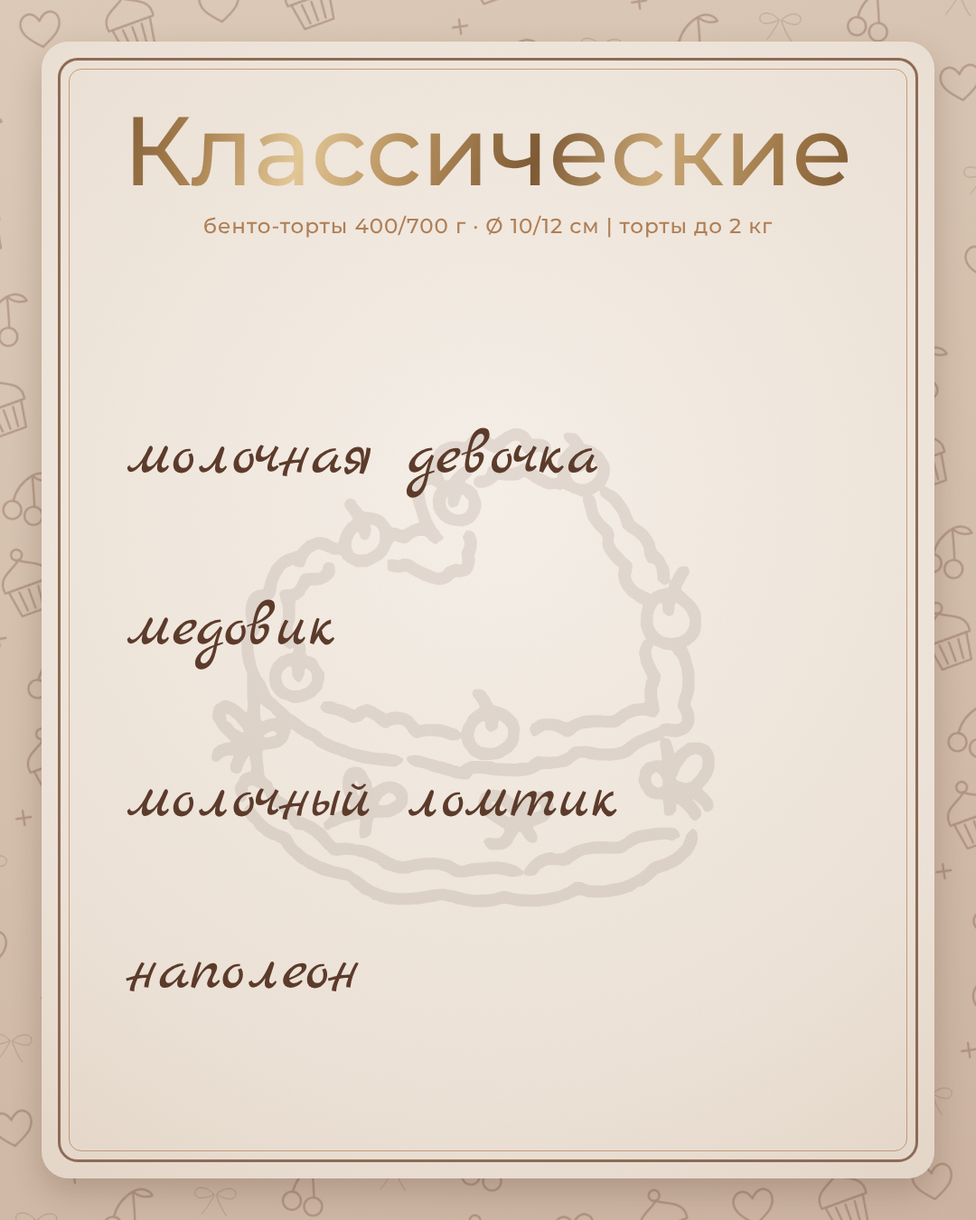
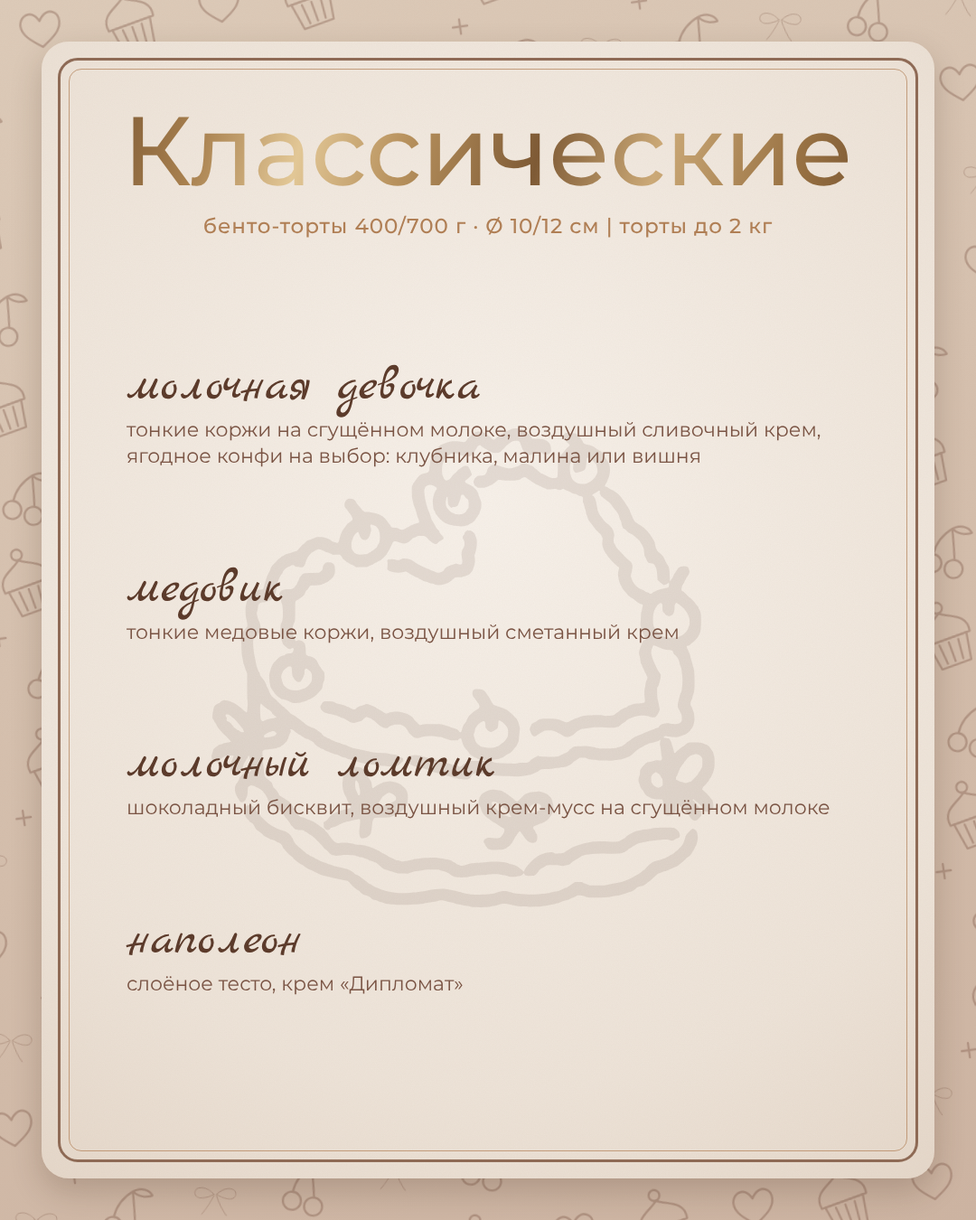
Menu: compositions for the new and classic cakes, cupcakes at 7 р
Adds the client's compositions for Фисташка-малина, Морковный and the four
classic cakes, which now show under their names on the slide and the story,
and the cupcake price on the cupcakes story. The cakes list is set a size
smaller so all eight fillings with compositions fit the frame.

Claude-Session: https://claude.ai/code/session_01BS48fjdM6CerzjRUCyn4gA

diff --git a/canvas/project/Menu-3-Torty.dc.html b/canvas/project/Menu-3-Torty.dc.html
@@ -20,23 +20,23 @@
 <img src="/_blob/7065785caaf3c4a338b728754059f4bd" alt="" style="position: absolute; left: 130px; top: 419px; width: 820px; opacity: 0.1">
 <div style="position: absolute; left: 0; right: 0; top: 112px; text-align: center"><span style="display: inline-block; padding: 0.3em 0.45em; margin: -0.3em -0.45em; background: linear-gradient(105deg, #6E4C2C 0%, #A9814F 16%, #E2C796 28%, #B8925E 40%, #7E5A35 56%, #CBA977 70%, #9A7344 86%, #6E4C2C 100%); -webkit-background-clip: text; background-clip: text; color: transparent; white-space: nowrap; font-family: 'Montserrat', sans-serif; font-weight: 500; font-size: 108px; line-height: 1">Торты</span></div>
 <div style="position: absolute; left: 0; right: 0; top: 236px; text-align: center; font-family: 'Montserrat', sans-serif; font-weight: 500; font-size: 23px; letter-spacing: 0.04em; color: #B07F55">бенто-торты 400/700 г · Ø 10/12 см  |  торты до 2 кг</div>
-<div style="position: absolute; left: 140px; right: 150px; top: 300px; display: flex; flex-direction: column; gap: 20px"><div>
-<div style="font-family: 'Marck Script', cursive; font-size: 54px; line-height: 1.05; color: #5C3B2B">фисташка-малина</div>
-<div style="margin-top: 4px; font-family: 'Montserrat', sans-serif; font-size: 22px; line-height: 1.35; color: #7A5444"></div></div><div>
-<div style="font-family: 'Marck Script', cursive; font-size: 54px; line-height: 1.05; color: #5C3B2B">банан-карамель</div>
-<div style="margin-top: 4px; font-family: 'Montserrat', sans-serif; font-size: 22px; line-height: 1.35; color: #7A5444">ванильный или шоколадный бисквит, сливочный крем-чиз, солёная карамель, свежий банан</div></div><div>
-<div style="font-family: 'Marck Script', cursive; font-size: 54px; line-height: 1.05; color: #5C3B2B">вишня-шоколад</div>
-<div style="margin-top: 4px; font-family: 'Montserrat', sans-serif; font-size: 22px; line-height: 1.35; color: #7A5444">шоколадный бисквит, сливочный или шоколадный крем-чиз, вишнёвое конфи с кусочками цельной вишни</div></div><div>
-<div style="font-family: 'Marck Script', cursive; font-size: 54px; line-height: 1.05; color: #5C3B2B">красный бархат</div>
-<div style="margin-top: 4px; font-family: 'Montserrat', sans-serif; font-size: 22px; line-height: 1.35; color: #7A5444">бисквит красный бархат, сливочный крем-чиз, ягодное конфи на выбор: клубничное, малиновое или вишнёвое</div></div><div>
-<div style="font-family: 'Marck Script', cursive; font-size: 54px; line-height: 1.05; color: #5C3B2B">лимон-мак</div>
-<div style="margin-top: 4px; font-family: 'Montserrat', sans-serif; font-size: 22px; line-height: 1.35; color: #7A5444">маковый бисквит, сливочный крем-чиз, лимонный курд</div></div><div>
-<div style="font-family: 'Marck Script', cursive; font-size: 54px; line-height: 1.05; color: #5C3B2B">ягодный пломбир</div>
-<div style="margin-top: 4px; font-family: 'Montserrat', sans-serif; font-size: 22px; line-height: 1.35; color: #7A5444">ванильный бисквит, сливочный крем-чиз, клубнично-малиновая начинка</div></div><div>
-<div style="font-family: 'Marck Script', cursive; font-size: 54px; line-height: 1.05; color: #5C3B2B">сникерс</div>
-<div style="margin-top: 4px; font-family: 'Montserrat', sans-serif; font-size: 22px; line-height: 1.35; color: #7A5444">шоколадный бисквит, сливочный крем-чиз, солёная карамель, жареный арахис</div></div><div>
-<div style="font-family: 'Marck Script', cursive; font-size: 54px; line-height: 1.05; color: #5C3B2B">морковный</div>
-<div style="margin-top: 4px; font-family: 'Montserrat', sans-serif; font-size: 22px; line-height: 1.35; color: #7A5444"></div></div></div>
+<div style="position: absolute; left: 140px; right: 150px; top: 288px; display: flex; flex-direction: column; gap: 12px"><div>
+<div style="font-family: 'Marck Script', cursive; font-size: 46px; line-height: 1.05; color: #5C3B2B">фисташка-малина</div>
+<div style="margin-top: 4px; font-family: 'Montserrat', sans-serif; font-size: 20px; line-height: 1.35; color: #7A5444">фисташковый бисквит, фисташковый ганаш, малиновое конфи, фисташковый крем</div></div><div>
+<div style="font-family: 'Marck Script', cursive; font-size: 46px; line-height: 1.05; color: #5C3B2B">банан-карамель</div>
+<div style="margin-top: 4px; font-family: 'Montserrat', sans-serif; font-size: 20px; line-height: 1.35; color: #7A5444">ванильный или шоколадный бисквит, сливочный крем-чиз, солёная карамель, свежий банан</div></div><div>
+<div style="font-family: 'Marck Script', cursive; font-size: 46px; line-height: 1.05; color: #5C3B2B">вишня-шоколад</div>
+<div style="margin-top: 4px; font-family: 'Montserrat', sans-serif; font-size: 20px; line-height: 1.35; color: #7A5444">шоколадный бисквит, сливочный или шоколадный крем-чиз, вишнёвое конфи с кусочками цельной вишни</div></div><div>
+<div style="font-family: 'Marck Script', cursive; font-size: 46px; line-height: 1.05; color: #5C3B2B">красный бархат</div>
+<div style="margin-top: 4px; font-family: 'Montserrat', sans-serif; font-size: 20px; line-height: 1.35; color: #7A5444">бисквит красный бархат, сливочный крем-чиз, ягодное конфи на выбор: клубничное, малиновое или вишнёвое</div></div><div>
+<div style="font-family: 'Marck Script', cursive; font-size: 46px; line-height: 1.05; color: #5C3B2B">лимон-мак</div>
+<div style="margin-top: 4px; font-family: 'Montserrat', sans-serif; font-size: 20px; line-height: 1.35; color: #7A5444">маковый бисквит, сливочный крем-чиз, лимонный курд</div></div><div>
+<div style="font-family: 'Marck Script', cursive; font-size: 46px; line-height: 1.05; color: #5C3B2B">ягодный пломбир</div>
+<div style="margin-top: 4px; font-family: 'Montserrat', sans-serif; font-size: 20px; line-height: 1.35; color: #7A5444">ванильный бисквит, сливочный крем-чиз, клубнично-малиновая начинка</div></div><div>
+<div style="font-family: 'Marck Script', cursive; font-size: 46px; line-height: 1.05; color: #5C3B2B">сникерс</div>
+<div style="margin-top: 4px; font-family: 'Montserrat', sans-serif; font-size: 20px; line-height: 1.35; color: #7A5444">шоколадный бисквит, сливочный крем-чиз, солёная карамель, жареный арахис</div></div><div>
+<div style="font-family: 'Marck Script', cursive; font-size: 46px; line-height: 1.05; color: #5C3B2B">морковный</div>
+<div style="margin-top: 4px; font-family: 'Montserrat', sans-serif; font-size: 20px; line-height: 1.35; color: #7A5444">морковный бисквит с корицей и грецкими орехами, солёная карамель, крем-чиз</div></div></div>
 </div>
 </x-dc>
 <script type="text/x-dc" data-dc-script data-props='{"$preview":{"width":1080,"height":1350}}'>

diff --git a/canvas/project/Menu-S2-Klassicheskie.dc.html b/canvas/project/Menu-S2-Klassicheskie.dc.html
@@ -22,7 +22,15 @@
 <div style="position: relative; font-family: 'Tenor Sans', sans-serif; font-size: 86px; letter-spacing: 0.03em; line-height: 1; color: #3B2419">КЛАССИЧЕСКИЕ</div>
 </div></div>
 <div style="position: absolute; left: 0; right: 0; top: 380px; text-align: center; font-family: 'Montserrat', sans-serif; font-weight: 500; font-size: 23px; letter-spacing: 0.04em; color: #B07F55">бенто-торты 400/700 г · Ø 10/12 см  |  торты до 2 кг</div>
-<div style="position: absolute; left: 120px; right: 120px; top: 640px; display: flex; flex-direction: column; align-items: center; gap: 130px; text-align: center"><div style="font-family: 'Tenor Sans', sans-serif; font-size: 44px; letter-spacing: 0.06em; line-height: 1.1; color: #5C3B2B">МОЛОЧНАЯ ДЕВОЧКА</div><div style="font-family: 'Tenor Sans', sans-serif; font-size: 44px; letter-spacing: 0.06em; line-height: 1.1; color: #5C3B2B">МЕДОВИК</div><div style="font-family: 'Tenor Sans', sans-serif; font-size: 44px; letter-spacing: 0.06em; line-height: 1.1; color: #5C3B2B">МОЛОЧНЫЙ ЛОМТИК</div><div style="font-family: 'Tenor Sans', sans-serif; font-size: 44px; letter-spacing: 0.06em; line-height: 1.1; color: #5C3B2B">НАПОЛЕОН</div></div>
+<div style="position: absolute; left: 120px; right: 120px; top: 560px; display: flex; flex-direction: column; gap: 80px"><div style="text-align: center">
+<div style="font-family: 'Tenor Sans', sans-serif; font-size: 40px; letter-spacing: 0.06em; line-height: 1.15; color: #5C3B2B">МОЛОЧНАЯ ДЕВОЧКА</div>
+<div style="margin: 8px auto 0; max-width: 760px; font-family: 'Montserrat', sans-serif; font-size: 23px; line-height: 1.35; color: #7A5444">тонкие коржи на сгущённом молоке, воздушный сливочный крем, ягодное конфи на выбор: клубника, малина или вишня</div></div><div style="text-align: center">
+<div style="font-family: 'Tenor Sans', sans-serif; font-size: 40px; letter-spacing: 0.06em; line-height: 1.15; color: #5C3B2B">МЕДОВИК</div>
+<div style="margin: 8px auto 0; max-width: 760px; font-family: 'Montserrat', sans-serif; font-size: 23px; line-height: 1.35; color: #7A5444">тонкие медовые коржи, воздушный сметанный крем</div></div><div style="text-align: center">
+<div style="font-family: 'Tenor Sans', sans-serif; font-size: 40px; letter-spacing: 0.06em; line-height: 1.15; color: #5C3B2B">МОЛОЧНЫЙ ЛОМТИК</div>
+<div style="margin: 8px auto 0; max-width: 760px; font-family: 'Montserrat', sans-serif; font-size: 23px; line-height: 1.35; color: #7A5444">шоколадный бисквит, воздушный крем-мусс на сгущённом молоке</div></div><div style="text-align: center">
+<div style="font-family: 'Tenor Sans', sans-serif; font-size: 40px; letter-spacing: 0.06em; line-height: 1.15; color: #5C3B2B">НАПОЛЕОН</div>
+<div style="margin: 8px auto 0; max-width: 760px; font-family: 'Montserrat', sans-serif; font-size: 23px; line-height: 1.35; color: #7A5444">слоёное тесто, крем «Дипломат»</div></div></div>
 <img src="/_blob/c983769c94974b17c618d7d6891b1a1d" alt="Dessertopia" style="position: absolute; left: 460px; top: 1710px; width: 160px; opacity: 0.72; filter: url(#worn)">
 </div>
 </x-dc>

diff --git a/canvas/project/Menu-4-Klassicheskie.dc.html b/canvas/project/Menu-4-Klassicheskie.dc.html
@@ -20,7 +20,15 @@
 <img src="/_blob/7065785caaf3c4a338b728754059f4bd" alt="" style="position: absolute; left: 130px; top: 419px; width: 820px; opacity: 0.1">
 <div style="position: absolute; left: 0; right: 0; top: 112px; text-align: center"><span style="display: inline-block; padding: 0.3em 0.45em; margin: -0.3em -0.45em; background: linear-gradient(105deg, #6E4C2C 0%, #A9814F 16%, #E2C796 28%, #B8925E 40%, #7E5A35 56%, #CBA977 70%, #9A7344 86%, #6E4C2C 100%); -webkit-background-clip: text; background-clip: text; color: transparent; white-space: nowrap; font-family: 'Montserrat', sans-serif; font-weight: 500; font-size: 108px; line-height: 1">Классические</span></div>
 <div style="position: absolute; left: 0; right: 0; top: 236px; text-align: center; font-family: 'Montserrat', sans-serif; font-weight: 500; font-size: 23px; letter-spacing: 0.04em; color: #B07F55">бенто-торты 400/700 г · Ø 10/12 см  |  торты до 2 кг</div>
-<div style="position: absolute; left: 140px; right: 140px; top: 470px; display: flex; flex-direction: column; gap: 118px"><div style="font-family: 'Marck Script', cursive; font-size: 72px; line-height: 1; color: #5C3B2B">молочная девочка</div><div style="font-family: 'Marck Script', cursive; font-size: 72px; line-height: 1; color: #5C3B2B">медовик</div><div style="font-family: 'Marck Script', cursive; font-size: 72px; line-height: 1; color: #5C3B2B">молочный ломтик</div><div style="font-family: 'Marck Script', cursive; font-size: 72px; line-height: 1; color: #5C3B2B">наполеон</div></div>
+<div style="position: absolute; left: 140px; right: 150px; top: 400px; display: flex; flex-direction: column; gap: 104px"><div>
+<div style="font-family: 'Marck Script', cursive; font-size: 54px; line-height: 1.05; color: #5C3B2B">молочная девочка</div>
+<div style="margin-top: 4px; font-family: 'Montserrat', sans-serif; font-size: 22px; line-height: 1.35; color: #7A5444">тонкие коржи на сгущённом молоке, воздушный сливочный крем, ягодное конфи на выбор: клубника, малина или вишня</div></div><div>
+<div style="font-family: 'Marck Script', cursive; font-size: 54px; line-height: 1.05; color: #5C3B2B">медовик</div>
+<div style="margin-top: 4px; font-family: 'Montserrat', sans-serif; font-size: 22px; line-height: 1.35; color: #7A5444">тонкие медовые коржи, воздушный сметанный крем</div></div><div>
+<div style="font-family: 'Marck Script', cursive; font-size: 54px; line-height: 1.05; color: #5C3B2B">молочный ломтик</div>
+<div style="margin-top: 4px; font-family: 'Montserrat', sans-serif; font-size: 22px; line-height: 1.35; color: #7A5444">шоколадный бисквит, воздушный крем-мусс на сгущённом молоке</div></div><div>
+<div style="font-family: 'Marck Script', cursive; font-size: 54px; line-height: 1.05; color: #5C3B2B">наполеон</div>
+<div style="margin-top: 4px; font-family: 'Montserrat', sans-serif; font-size: 22px; line-height: 1.35; color: #7A5444">слоёное тесто, крем «Дипломат»</div></div></div>
 </div>
 </x-dc>
 <script type="text/x-dc" data-dc-script data-props='{"$preview":{"width":1080,"height":1350}}'>

diff --git a/canvas/project/Menu-S1-Karta-tortov.dc.html b/canvas/project/Menu-S1-Karta-tortov.dc.html
@@ -25,7 +25,7 @@
 <div style="position: absolute; left: 0; right: 0; top: 418px; text-align: center; font-family: 'Montserrat', sans-serif; font-weight: 500; font-size: 23px; letter-spacing: 0.04em; color: #B07F55">бенто-торты 400/700 г · Ø 10/12 см  |  торты до 2 кг</div>
 <div style="position: absolute; left: 120px; right: 120px; top: 510px; display: flex; flex-direction: column; gap: 30px"><div style="text-align: center">
 <div style="font-family: 'Tenor Sans', sans-serif; font-size: 34px; letter-spacing: 0.06em; line-height: 1.15; color: #5C3B2B">ФИСТАШКА-МАЛИНА</div>
-</div><div style="text-align: center">
+<div style="margin: 8px auto 0; max-width: 760px; font-family: 'Montserrat', sans-serif; font-size: 23px; line-height: 1.35; color: #7A5444">фисташковый бисквит, фисташковый ганаш, малиновое конфи, фисташковый крем</div></div><div style="text-align: center">
 <div style="font-family: 'Tenor Sans', sans-serif; font-size: 34px; letter-spacing: 0.06em; line-height: 1.15; color: #5C3B2B">БАНАН-КАРАМЕЛЬ</div>
 <div style="margin: 8px auto 0; max-width: 760px; font-family: 'Montserrat', sans-serif; font-size: 23px; line-height: 1.35; color: #7A5444">ванильный или шоколадный бисквит, сливочный крем-чиз, солёная карамель, свежий банан</div></div><div style="text-align: center">
 <div style="font-family: 'Tenor Sans', sans-serif; font-size: 34px; letter-spacing: 0.06em; line-height: 1.15; color: #5C3B2B">ВИШНЯ-ШОКОЛАД</div>
@@ -39,7 +39,7 @@
 <div style="font-family: 'Tenor Sans', sans-serif; font-size: 34px; letter-spacing: 0.06em; line-height: 1.15; color: #5C3B2B">СНИКЕРС</div>
 <div style="margin: 8px auto 0; max-width: 760px; font-family: 'Montserrat', sans-serif; font-size: 23px; line-height: 1.35; color: #7A5444">шоколадный бисквит, сливочный крем-чиз, солёная карамель, жареный арахис</div></div><div style="text-align: center">
 <div style="font-family: 'Tenor Sans', sans-serif; font-size: 34px; letter-spacing: 0.06em; line-height: 1.15; color: #5C3B2B">МОРКОВНЫЙ</div>
-</div></div>
+<div style="margin: 8px auto 0; max-width: 760px; font-family: 'Montserrat', sans-serif; font-size: 23px; line-height: 1.35; color: #7A5444">морковный бисквит с корицей и грецкими орехами, солёная карамель, крем-чиз</div></div></div>
 <img src="/_blob/c983769c94974b17c618d7d6891b1a1d" alt="Dessertopia" style="position: absolute; left: 460px; top: 1710px; width: 160px; opacity: 0.72; filter: url(#worn)">
 </div>
 </x-dc>

diff --git a/canvas/project/Menu-S4-Kapkejki-traifly.dc.html b/canvas/project/Menu-S4-Kapkejki-traifly.dc.html
@@ -21,8 +21,8 @@
 <div style="position: absolute; left: -30px; top: -139px; opacity: 0.9"><span style="display: inline-block; padding: 0.3em 0.45em; margin: -0.3em -0.45em; background: linear-gradient(105deg, #6E4C2C 0%, #A9814F 16%, #E2C796 28%, #B8925E 40%, #7E5A35 56%, #CBA977 70%, #9A7344 86%, #6E4C2C 100%); -webkit-background-clip: text; background-clip: text; color: transparent; white-space: nowrap; font-family: 'Ms Madi', cursive; font-size: 170px; line-height: 1">Cupcakes</span></div>
 <div style="position: relative; font-family: 'Tenor Sans', sans-serif; font-size: 86px; letter-spacing: 0.03em; line-height: 1; color: #3B2419">КАПКЕЙКИ</div>
 </div></div>
-
-<div style="position: absolute; left: 120px; right: 120px; top: 390px; display: flex; flex-direction: column; gap: 24px"><div style="text-align: center">
+<div style="position: absolute; left: 0; right: 0; top: 362px; text-align: center; font-family: 'Montserrat', sans-serif; font-weight: 600; font-size: 32px; letter-spacing: 0.06em; color: #5C3B2B">(7 Р / ШТ)</div>
+<div style="position: absolute; left: 120px; right: 120px; top: 440px; display: flex; flex-direction: column; gap: 24px"><div style="text-align: center">
 <div style="font-family: 'Tenor Sans', sans-serif; font-size: 30px; letter-spacing: 0.06em; line-height: 1.15; color: #5C3B2B">ЧЕРНИЧНЫЕ</div>
 </div><div style="text-align: center">
 <div style="font-family: 'Tenor Sans', sans-serif; font-size: 30px; letter-spacing: 0.06em; line-height: 1.15; color: #5C3B2B">ШОКОЛАДНЫЕ И ВАНИЛЬНЫЕ</div>

diff --git a/tools/build_menu.py b/tools/build_menu.py
@@ -151,10 +151,10 @@ def title(word, top=126):
             f'{gold(word, f"{MONT}; font-weight: 500; font-size: 108px; line-height: 1")}</div>')
 
 
-def menu_list(items, top, gap):
+def menu_list(items, top, gap, name_size=54, desc_size=22):
     rows = "".join(f"""<div>
-<div style="{MARCK}; font-size: 54px; line-height: 1.05; color: {CHOC}">{name}</div>
-<div style="margin-top: 4px; {MONT}; font-size: 22px; line-height: 1.35; color: {MILK}">{desc}</div></div>""" for name, desc in items)
+<div style="{MARCK}; font-size: {name_size}px; line-height: 1.05; color: {CHOC}">{name}</div>
+<div style="margin-top: 4px; {MONT}; font-size: {desc_size}px; line-height: 1.35; color: {MILK}">{desc}</div></div>""" for name, desc in items)
     return f'<div style="position: absolute; left: 140px; right: 150px; top: {top}px; display: flex; flex-direction: column; gap: {gap}px">{rows}</div>'
 
 
@@ -166,16 +166,15 @@ def cakes():
     inner = f"""{watermark(540, 720, 820, 0.10)}
 {title("Торты", 112)}
 {assortment(236)}
-{menu_list([(f["name"].lower(), f["desc"]) for f in CAKES], 300, 20)}"""
+{menu_list([(f["name"].lower(), f["desc"]) for f in CAKES], 288, 12, 46, 20)}"""
     return carousel("Торты — начинки и состав", framed(1080, 1350, inner))
 
 
 def classic():
-    rows = "".join(f'<div style="{MARCK}; font-size: 72px; line-height: 1; color: {CHOC}">{n.lower()}</div>' for n in CLASSIC)
     inner = f"""{watermark(540, 720, 820, 0.10)}
 {title("Классические", 112)}
 {assortment(236)}
-<div style="position: absolute; left: 140px; right: 140px; top: 470px; display: flex; flex-direction: column; gap: 118px">{rows}</div>"""
+{menu_list([(c["name"].lower(), c["desc"]) for c in CLASSIC], 400, 104)}"""
     return carousel("Классические торты", framed(1080, 1350, inner))
 
 
@@ -276,11 +275,10 @@ def story_cakes():
 
 
 def story_classic():
-    rows = "".join(f'<div style="{TENOR}; font-size: 44px; letter-spacing: 0.06em; line-height: 1.1; color: {CHOC}">{n.upper()}</div>' for n in CLASSIC)
     inner = f"""{corner_drawing()}
 {heading("КЛАССИЧЕСКИЕ", "Classic", 250)}
 {assortment(380)}
-<div style="position: absolute; left: 120px; right: 120px; top: 640px; display: flex; flex-direction: column; align-items: center; gap: 130px; text-align: center">{rows}</div>
+{centred_list([(c["name"], c["desc"]) for c in CLASSIC], 560, 80, 40)}
 {logo(1710)}"""
     return story("Классические торты (история)", inner)
 

diff --git a/README.md b/README.md
@@ -82,7 +82,7 @@
 
 - **Карусель для ленты** повторяет образец-карусель, но начинается сразу с обложки «Начинки» (золотая надпись, летящий кусок торта): начинки в разрезе в кругах с золотой каймой; «Торты», «Классические» и «Десерты» в рамке с узором — название рукописным шрифтом, состав мелко под ним; десерты на фото. Сверху на слайдах с кругами и фото — «by Diana» шрифтом Parisienne, как «by …» на образце. Обложки «Меню» и мелких подписей с образца («дизайн постов», ник в Telegram, «меню by …» внизу) нет.
 - **Истории с ценами** сделаны как карточки второго образца, только без фото на фоне: золотая подпись (шрифт Ms Madi) над заголовком (Tenor Sans), списки по центру, линейные иконки тортов, «один гость ≈ 150–200 г», логотип внизу — бледный, будто слегка стёртый.
-- **Что на слайдах** — всё из раздела `menu` в `tools/fillings.json`: 8 начинок тортов, классические торты (молочная девочка, медовик, молочный ломтик, наполеон), 9 вкусов трайфлов, капкейки (черничные; шоколадные и ванильные с начинкой на выбор; банановые; морковные) и строка ассортимента «бенто-торты 400/700 г · Ø 10/12 см | торты до 2 кг». Цены капкейков пока нет (`cupcake_price`), у «Фисташки-малины», «Морковного» и классических нет состава (`desc`) — допишите, когда будут.
+- **Что на слайдах** — всё из раздела `menu` в `tools/fillings.json`: 8 начинок тортов, классические торты (молочная девочка, медовик, молочный ломтик, наполеон), 9 вкусов трайфлов, капкейки (черничные; шоколадные и ванильные с начинкой на выбор; банановые; морковные) и строка ассортимента «бенто-торты 400/700 г · Ø 10/12 см | торты до 2 кг». Капкейки — 7 р/шт (`cupcake_price`). Составы начинок и классических тортов — в `desc`.
 
 Рисунок торта-сердца из аватара стоит водяным знаком, логотип на историях коричневый. Начинки в кругах — разрезы из ИИ-коллажей (`assets/ai/`), десерты — ваши фото. Тексты, рисунки, фото и цвета свои; поиск по картинкам (Яндекс) копий образца-карусели не нашёл, образец с ценами — меню другой кондитерской, дословно его не повторяем.
 
